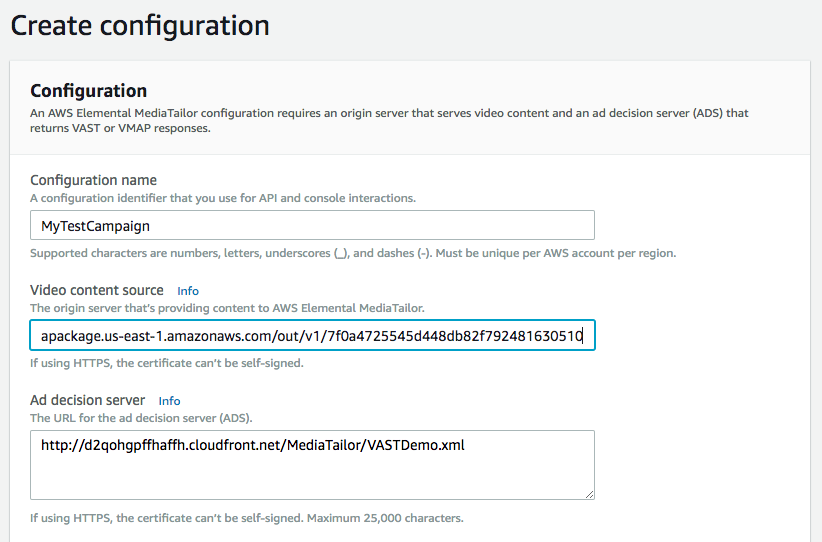
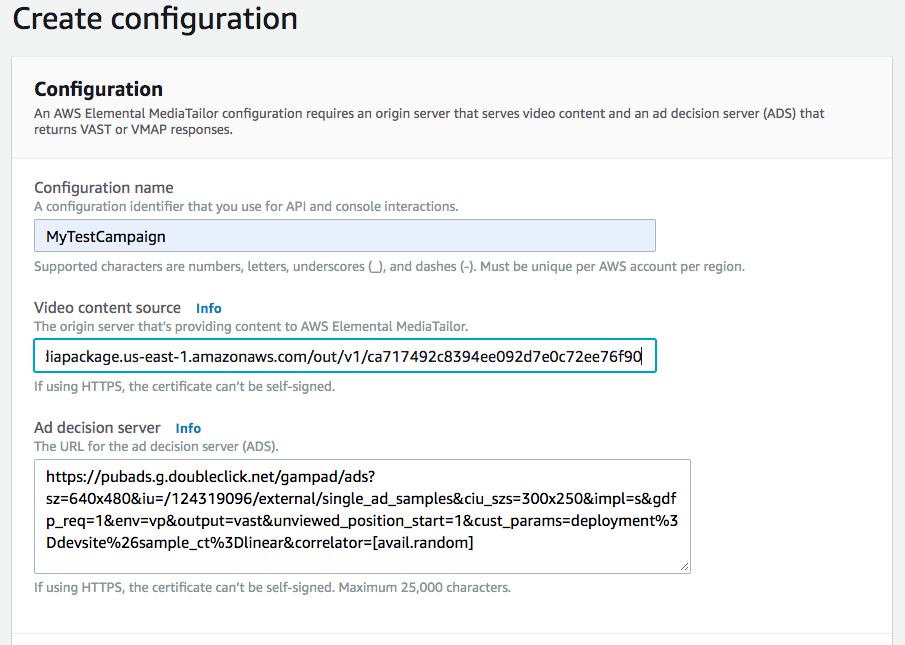
showing how to use a published tag from DFP for the ADS

Changed region(s): [[0.0304, 0.1181, 0.9124, 0.8561], [0.0304, 0.8856, 0.7603, 0.9742], [0.0, 0.0, 0.3345, 0.0886]]

diff --git a/5-MediaTailor/README.md b/5-MediaTailor/README.md
@@ -1,5 +1,5 @@
 # AWS Elemental MediaTailor
-This lab will take you through setting up MediaTailor using other AWS Elemental products like MediaLive and MediaPackage. Once you've completed that, the lab also provides steps on how to integrate MediaTailor with AWS CloudFront.
+This lab will take you through setting up MediaTailor using other AWS Elemental products like MediaLive and MediaPackage. Once you've completed that, the lab also provides steps on how to integrate MediaTailor with Amazon CloudFront.
 	
 ![alt](EMTDiagram.png)
 
@@ -7,7 +7,7 @@ This lab will take you through setting up MediaTailor using other AWS Elemental 
 This lab assumes that you have the following:
 1. An AWS Elemental MediaLive channel set up to pass through SCTE-35 and pushing content to MediaPackage. Input to the channel must contain SCTE-35 Ad markers. 
 1. An AWS Elemental MediaPackage channel set up to receive streams from MediaLive. The channel must have an Endpoint setup that has Ad Markers enabled. The Endpoint URL is needed to integrate with both MediaTailor and Cloudfront. 
-1. An Ad Decision Server (ADS), or you may use a static VAST response XML hosted on a server. For this exercise, you will use a static VAST response XML hosted in S3. 
+1. An Ad Decision Server (ADS). You may use a sample static VAST response XML or a free VAST tag from a commercial ADS like [DoubleClick for Publishers (DFP) by Google](https://developers.google.com/interactive-media-ads/docs/sdks/html5/tags). 
 
 ### Previous Modules
 
@@ -29,7 +29,12 @@ This module relies on the configuration of AWS Elemental MediaLive and AWS Eleme
 
 	![alt](MediaPackageEndpointURL.png)
 
-1. Enter `http://d2qohgpffhaffh.cloudfront.net/MediaTailor/VASTDemo.xml` for the **Ad decision server**. 
+1. For the **Ad decision server**, you may enter our hosted sample static VAST response: 	http://d2qohgpffhaffh.cloudfront.net/MediaTailor/VASTDemo.xml
+
+	Or use one of the published VAST tags from DFP like the Single Inline Linear tag:
+
+	https://pubads.g.doubleclick.net/gampad/ads?sz=640x480&iu=/124319096/external/single_ad_samples&ciu_szs=300x250&impl=s&gdfp_req=1&env=vp&output=vast&unviewed_position_start=1&cust_params=deployment%3Ddevsite%26sample_ct%3Dlinear&correlator=[avail.random]
+
 
 	![alt](MediaTailorConfig.png)
 
